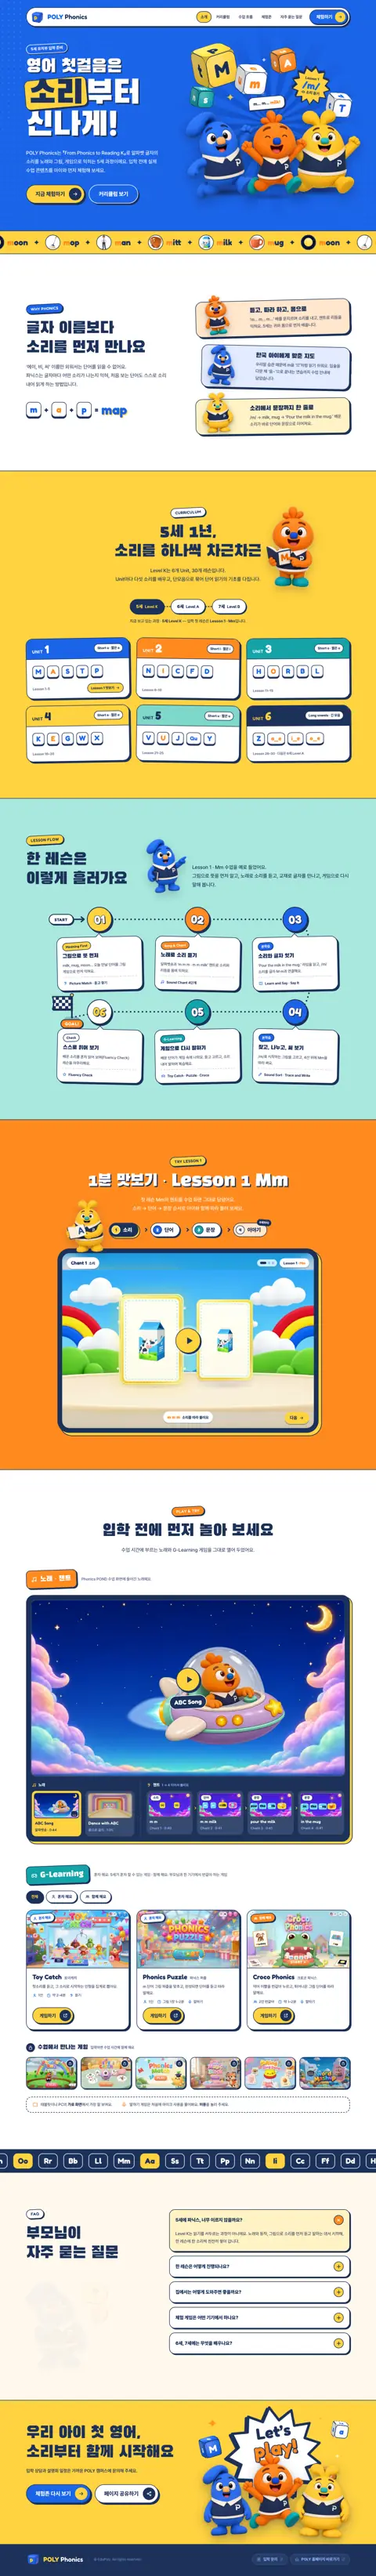
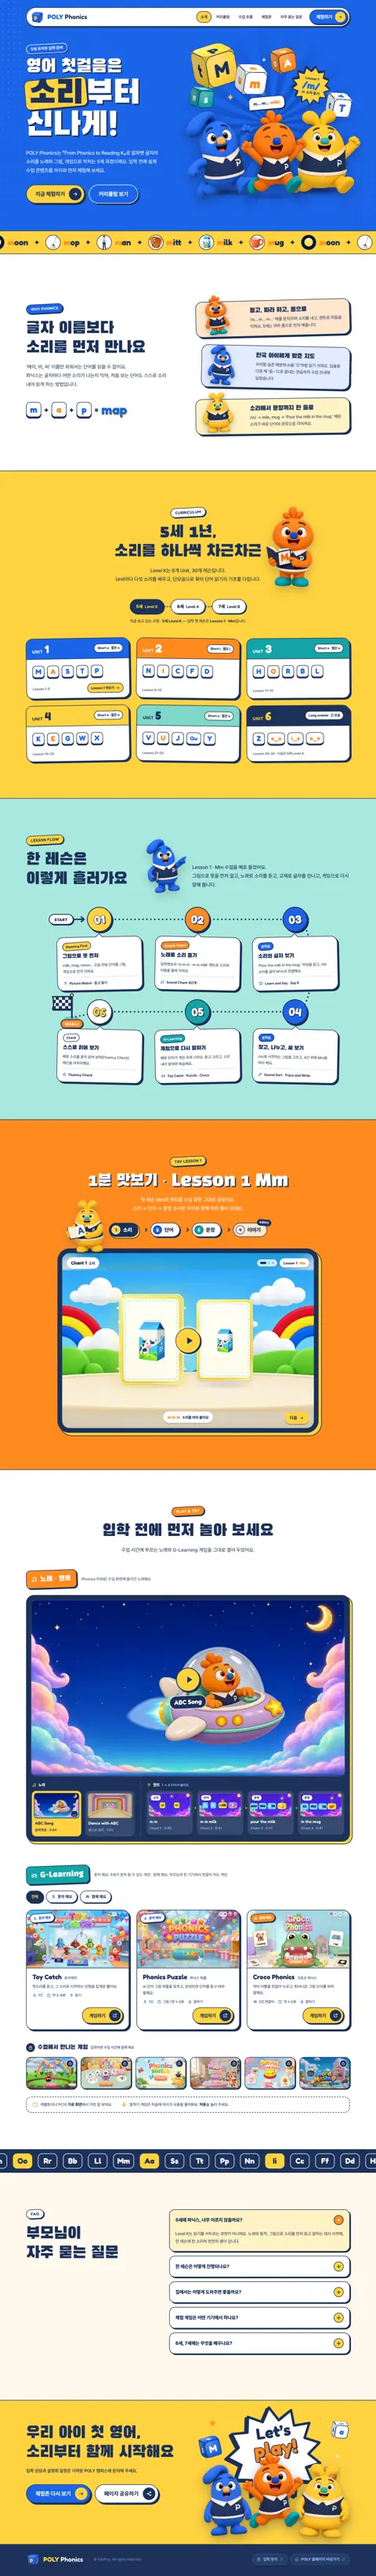
C: 게임하기 buttons sit at the right of the game cards

diff --git a/assets/css/concept-c.css b/assets/css/concept-c.css
@@ -682,6 +682,7 @@ button.g:hover { transform: translate(2px, 2px); box-shadow: 2px 2px 0 var(--c-n
 /* 게임하기: bigger, the main action of the card (user 2026-11-25) */
 .card .go { min-height: 60px; padding: 7px 7px 7px 26px; gap: 14px; font-size: 18px; border-width: 2.5px; box-shadow: 4px 4px 0 var(--c-navy);
   transition: transform .25s var(--ease), box-shadow .25s var(--ease); }
+.card .go { align-self: flex-end; }   /* 게임하기 sits at the right of the card (user 2026-11-26) */
 .card .go .ic-dot { width: 44px; height: 44px; }
 .card .go .ic-dot .ic { width: 20px; height: 20px; }
 .card.press:hover .go { transform: translate(2px, 2px); box-shadow: 2px 2px 0 var(--c-navy); }

diff --git a/concept-c.html b/concept-c.html
@@ -14,7 +14,7 @@
 <link rel="preconnect" href="https://fonts.gstatic.com" crossorigin>
 <link rel="stylesheet" href="https://cdn.jsdelivr.net/gh/orioncactus/pretendard@v1.3.9/dist/web/variable/pretendardvariable-dynamic-subset.min.css">
 <link rel="stylesheet" href="https://fonts.googleapis.com/css2?family=Black+Han+Sans&family=Fredoka:wght@500;600;700&display=swap">
-<link rel="stylesheet" href="assets/css/concept-c.css?v=dd0ff6d1">
+<link rel="stylesheet" href="assets/css/concept-c.css?v=c1dd1195">
 <link rel="stylesheet" href="assets/css/survey.css?v=25e7739e">
 </head>
 <body>
